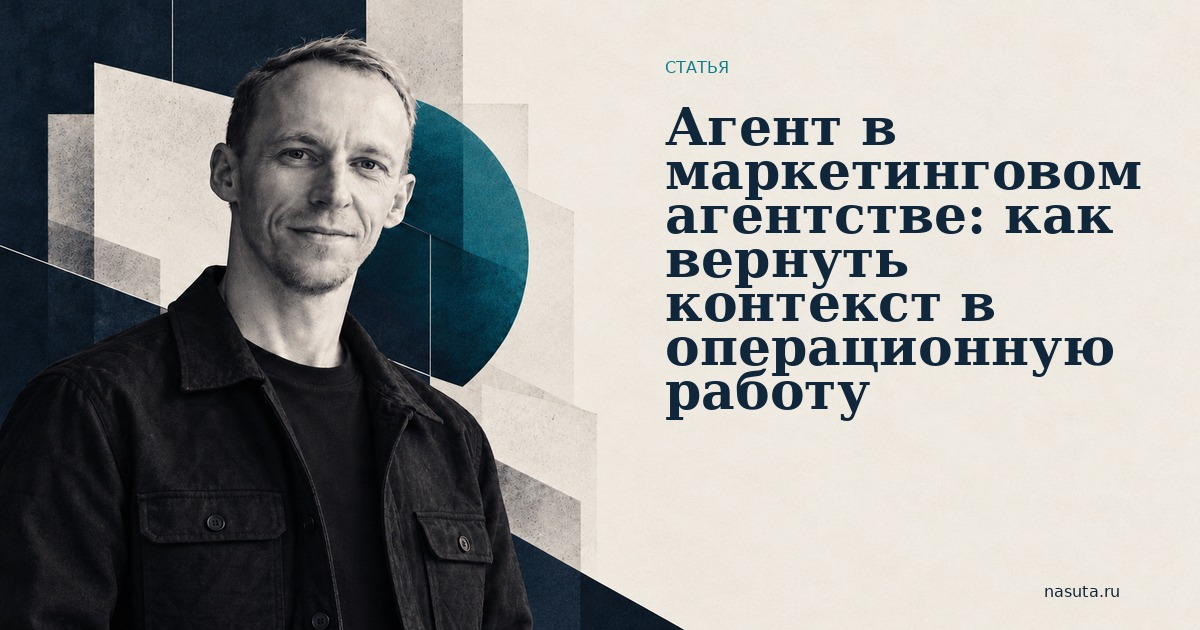
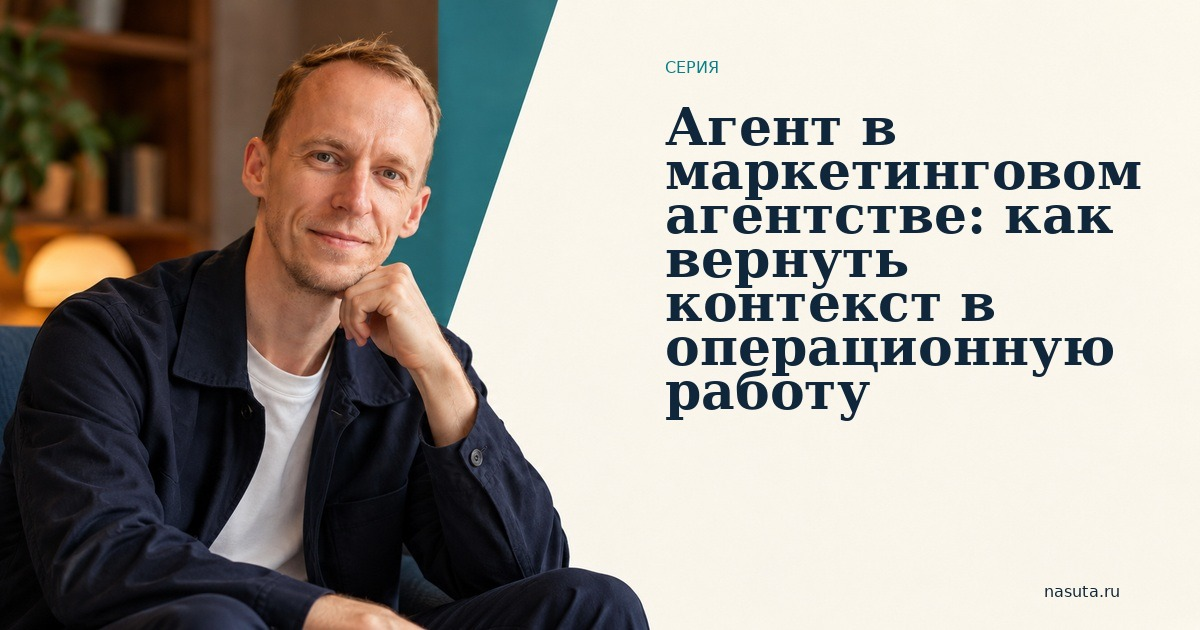
fix: refine blog reading surfaces

diff --git a/assets/styles/articles-editorial.css b/assets/styles/articles-editorial.css
@@ -1,1 +1,1 @@
-:root{--ink:#102e3d;--ink2:#214656;--paper:#f4f7f3;--white:#fbfcfa;--line:#bed1ce;--slate:#59717a;--teal:#08716e;--pale:#d6ede5;--orange:#dd7448;--mono:ui-monospace,SFMono-Regular,Menlo,Monaco,Consolas,monospace}*{box-sizing:border-box}html{scroll-behavior:smooth}body{margin:0;background:var(--paper);color:var(--ink);font-family:Arial,Helvetica,sans-serif;line-height:1.58}.shell{max-width:1180px;margin:auto;padding:0 42px}.nav{height:80px;border-bottom:1px solid var(--line);display:flex;justify-content:space-between;align-items:center}.brand{font:700 18px Georgia,serif;letter-spacing:-.035em;text-decoration:none;color:inherit}.nav-right{display:flex;gap:18px;align-items:center;font-weight:700;font-size:14px}.nav-right a{color:inherit;text-decoration:none}.nav-right a:last-child{border:1px solid var(--ink);padding:8px 11px}.hero{padding:82px 0 58px;border-bottom:1px solid var(--line);max-width:1030px}.meta,.eyebrow{font:700 11px var(--mono);letter-spacing:.1em;text-transform:uppercase;color:var(--teal)}h1{margin:20px 0 28px;max-width:980px;font:400 clamp(49px,7.25vw,97px)/.85 Georgia,serif;letter-spacing:-.082em}.lede{max-width:730px;font-size:22px;line-height:1.45;color:var(--ink2);margin:0}.hero-visual{margin:44px 0 0;max-width:1000px;overflow:hidden;border:1px solid var(--line);background:var(--white)}.hero-visual img{display:block;width:100%;height:auto}.article{display:grid;grid-template-columns:180px minmax(0,720px);gap:58px;padding:58px 0 78px}.toc{position:sticky;top:20px;align-self:start}.toc .eyebrow{margin-bottom:12px}.toc a{display:block;color:var(--slate);text-decoration:none;border-top:1px solid var(--line);padding:9px 0;font:700 11px var(--mono);letter-spacing:.04em}.toc a:last-child{border-bottom:1px solid var(--line)}.content>p,.content li,.content td{font-size:18px;line-height:1.62;color:var(--ink2)}.content p{margin:0 0 22px}.content h2{font:400 clamp(34px,4.2vw,56px)/.95 Georgia,serif;letter-spacing:-.068em;margin:67px 0 20px}.content h3{font:400 29px/1.05 Georgia,serif;letter-spacing:-.05em;margin:38px 0 13px}.content ul,.content ol{padding-left:24px;margin:0 0 25px}.content li{padding-left:6px;margin:9px 0}.content strong{color:var(--ink)}.architecture{margin:37px 0 28px}.architecture img{display:block;width:100%;height:auto;border:1px solid var(--line);background:var(--paper)}.architecture figcaption{margin-top:10px;color:var(--slate);font:700 11px var(--mono);letter-spacing:.04em}.comparison{margin:28px 0 31px;border-collapse:collapse;width:100%;font-size:16px}.comparison th,.comparison td{border:1px solid var(--line);padding:14px 15px;text-align:left;vertical-align:top}.comparison th{background:var(--ink);color:var(--white);font:700 12px var(--mono);letter-spacing:.04em}.comparison td:first-child{font-weight:700;color:var(--ink)}.principle{margin:35px 0;background:var(--pale);border:1px solid var(--teal);padding:28px 30px}.principle .eyebrow{margin:0 0 10px}.principle p{font:400 27px/1.18 Georgia,serif;letter-spacing:-.035em;color:var(--ink);margin:0}.architecture-note{margin:26px 0;border-left:4px solid var(--orange);padding:5px 0 5px 22px}.architecture-note p{margin:0}.skill-card{display:block;text-decoration:none;color:inherit;margin:47px 0 0;padding:29px 31px;border:1px solid var(--ink);background:var(--white);position:relative;overflow:hidden}.skill-card:after{content:"↗";position:absolute;right:28px;top:25px;font:400 39px/1 Georgia,serif;color:var(--teal)}.skill-card:hover{background:var(--pale)}.skill-card .eyebrow{margin:0 0 13px}.skill-card h2{margin:0 40px 10px 0;font-size:43px}.skill-card p{margin:0;max-width:600px}.footer{border-top:1px solid var(--line);padding:25px 0 34px;display:flex;justify-content:space-between;color:var(--slate);font:700 11px var(--mono);letter-spacing:.04em}@media(max-width:760px){.shell{padding:0 21px}.nav{height:67px}.nav-right{gap:10px;font-size:12px}.nav-right a:first-child{display:none}.nav-right a:last-child{padding:6px 8px}.hero{padding:54px 0 43px}h1{font-size:clamp(49px,15vw,74px);line-height:.88;letter-spacing:-.08em}.lede{font-size:19px}.hero-visual{margin-top:29px}.article{display:block;padding-top:37px}.toc{position:static;display:flex;flex-wrap:wrap;gap:7px;margin-bottom:32px}.toc .eyebrow{width:100%;margin-bottom:5px}.toc a,.toc a:last-child{border:1px solid var(--line);padding:6px 8px;font-size:10px}.content>p,.content li{font-size:17px}.content h2{font-size:40px;margin-top:53px}.content h3{font-size:27px}.architecture{margin:27px -21px 23px;padding:0 21px 8px;overflow-x:auto}.architecture img{min-width:720px;max-width:none}.comparison{font-size:14px;display:block;overflow-x:auto;white-space:normal}.comparison th,.comparison td{min-width:135px;padding:11px}.principle{padding:22px}.principle p{font-size:24px}.skill-card{padding:23px 22px}.skill-card:after{right:18px;top:18px}.skill-card h2{font-size:35px}.footer{font-size:9px;gap:14px}.footer span:last-child{text-align:right}}
+:root{--ink:#102e3d;--ink2:#214656;--paper:#f4f7f3;--white:#fbfcfa;--line:#bed1ce;--slate:#59717a;--teal:#08716e;--pale:#d6ede5;--orange:#dd7448;--mono:ui-monospace,SFMono-Regular,Menlo,Monaco,Consolas,monospace}*{box-sizing:border-box}html{scroll-behavior:smooth}body{margin:0;background:var(--paper);color:var(--ink);font-family:Arial,Helvetica,sans-serif;line-height:1.58}.shell{max-width:1180px;margin:auto;padding:0 42px}.nav{height:80px;border-bottom:1px solid var(--line);display:flex;justify-content:space-between;align-items:center}.brand{font:700 18px Georgia,serif;letter-spacing:-.035em;text-decoration:none;color:inherit}.nav-right{display:flex;gap:18px;align-items:center;font-weight:700;font-size:14px}.nav-right a{color:inherit;text-decoration:none}.nav-right a:last-child{border:1px solid var(--ink);padding:8px 11px}.hero{padding:82px 0 58px;border-bottom:1px solid var(--line);max-width:1030px}.meta,.eyebrow{font:700 11px var(--mono);letter-spacing:.1em;text-transform:uppercase;color:var(--teal)}h1{margin:20px 0 28px;max-width:980px;font:400 clamp(49px,7.25vw,97px)/.85 Georgia,serif;letter-spacing:-.082em}.lede{max-width:730px;font-size:22px;line-height:1.45;color:var(--ink2);margin:0}.hero-visual{margin:44px 0 0;max-width:1000px;overflow:hidden;border:1px solid var(--line);background:var(--white)}.hero-visual img{display:block;width:100%;height:auto}.article{display:grid;grid-template-columns:180px minmax(0,720px);gap:58px;padding:58px 0 78px}.toc{position:sticky;top:20px;align-self:start}.toc .eyebrow{margin-bottom:12px}.toc a{display:block;color:var(--slate);text-decoration:none;border-top:1px solid var(--line);padding:9px 0;font:700 11px var(--mono);letter-spacing:.04em}.toc a:last-child{border-bottom:1px solid var(--line)}.content>p,.content li,.content td{font-size:18px;line-height:1.62;color:var(--ink2)}.content p{margin:0 0 22px}.content h2{font:400 clamp(34px,4.2vw,56px)/.95 Georgia,serif;letter-spacing:-.068em;margin:67px 0 20px}.content h3{font:400 29px/1.05 Georgia,serif;letter-spacing:-.05em;margin:38px 0 13px}.content ul,.content ol{padding-left:24px;margin:0 0 25px}.content li{padding-left:6px;margin:9px 0}.content strong{color:var(--ink)}.architecture{margin:37px 0 28px}.architecture img{display:block;width:100%;height:auto;border:1px solid var(--line);background:var(--paper)}.architecture figcaption{margin-top:10px;color:var(--slate);font:700 11px var(--mono);letter-spacing:.04em}.comparison{margin:28px 0 31px;border-collapse:collapse;width:100%;font-size:16px}.comparison th,.comparison td{border:1px solid var(--line);padding:14px 15px;text-align:left;vertical-align:top}.comparison th{background:var(--ink);color:var(--white);font:700 12px var(--mono);letter-spacing:.04em}.comparison td:first-child{font-weight:700;color:var(--ink)}.principle{margin:35px 0;background:var(--pale);border:1px solid var(--teal);padding:28px 30px}.principle .eyebrow{margin:0 0 10px}.principle p{font:400 27px/1.18 Georgia,serif;letter-spacing:-.035em;color:var(--ink);margin:0}.architecture-note{margin:26px 0;border-left:4px solid var(--orange);padding:5px 0 5px 22px}.architecture-note p{margin:0}.skill-card{display:block;text-decoration:none;color:inherit;margin:47px 0 0;padding:29px 31px;border:1px solid var(--ink);background:var(--white);position:relative;overflow:hidden}.skill-card:after{content:"↗";position:absolute;right:28px;top:25px;font:400 39px/1 Georgia,serif;color:var(--teal)}.skill-card:hover{background:var(--pale)}.skill-card .eyebrow{margin:0 0 13px}.skill-card h2{margin:0 40px 10px 0;font-size:43px}.skill-card p{margin:0;max-width:600px}.footer{border-top:1px solid var(--line);padding:25px 0 34px;display:flex;justify-content:space-between;color:var(--slate);font:700 11px var(--mono);letter-spacing:.04em}@media(max-width:760px){.shell{padding:0 21px}.nav{height:67px}.nav-right{gap:10px;font-size:12px}.nav-right a:first-child{display:none}.nav-right a:last-child{padding:6px 8px}.hero{padding:54px 0 43px}h1{font-size:clamp(49px,15vw,74px);line-height:.88;letter-spacing:-.08em}.lede{font-size:19px}.hero-visual{margin-top:29px}.article{display:block;padding-top:37px}.toc{position:static;display:flex;flex-wrap:wrap;gap:7px;margin-bottom:32px}.toc .eyebrow{width:100%;margin-bottom:5px}.toc a,.toc a:last-child{border:1px solid var(--line);padding:6px 8px;font-size:10px}.content>p,.content li{font-size:17px}.content h2{font-size:40px;margin-top:53px}.content h3{font-size:27px}.architecture{margin:27px -21px 23px;padding:0 21px 8px;overflow-x:auto}.architecture img{min-width:720px;max-width:none}.comparison{font-size:14px;display:block;overflow-x:auto;white-space:normal}.comparison th,.comparison td{min-width:135px;padding:11px}.principle{padding:22px}.principle p{font-size:24px}.skill-card{padding:23px 22px}.skill-card:after{right:18px;top:18px}.skill-card h2{font-size:35px}.footer{font-size:9px;gap:14px}.footer span:last-child{text-align:right}}.article-tail{margin:56px 0 0;padding-top:26px;border-top:1px solid var(--ink)}.article-tail__series{max-width:720px}.article-tail__series .eyebrow{margin:0 0 13px}.article-tail__links{border-top:1px solid var(--line)}.article-tail__links a{display:block;padding:13px 0;border-bottom:1px solid var(--line);color:var(--ink);font:400 21px/1.2 Georgia,serif;letter-spacing:-.025em;text-decoration:none}.article-tail__links a:hover{color:var(--teal)}.article-tail__contact{margin:23px 0 0!important;color:var(--slate)!important;font-size:16px!important}.article-tail__contact a{color:var(--ink);font-weight:700;text-decoration-thickness:1px;text-underline-offset:3px}@media(max-width:760px){.article-tail{margin-top:42px;padding-top:21px}.article-tail__links a{padding:12px 0;font-size:19px}.article-tail__contact{font-size:16px!important}}

diff --git a/articles/index.html b/articles/index.html
@@ -81,13 +81,13 @@
 </nav>
 <div class="shell">
 <main><header class="hero"><div class="kicker">Блог</div><h1>Заметки о продуктовой работе с AI.</h1><p class="lede">Про то, как не начинать с инструмента, проверять результат и оставлять решение там, где ему место — у человека.</p></header><section class="list">
-<a class="item item--with-cover" href="/articles/agent-in-marketing-agency/"><img class="item-cover" src="/assets/images/og-agent-in-marketing-agency.jpg" alt=""><div class="item-meta">СЕРИЯ<br>11 МИН</div><div><h2>Агент в маркетинговом агентстве: как вернуть контекст в операционную работу</h2><p>Где агент снимает с руководителя ручную сборку контекста и какие правила делают его результат частью операционной работы.</p></div><span class="arrow">→</span></a><a class="item item--with-cover" href="/articles/ai-agent-pilot-for-agency/"><img class="item-cover" src="/assets/images/og-ai-agent-pilot-for-agency.jpg" alt=""><div class="item-meta">СЕРИЯ<br>10 МИН</div><div><h2>Как внедрять AI-агента в агентство: пилот, данные и границы</h2><p>Пилот начинается с одной повторяющейся цепочки, надёжных источников и правила: решения с последствиями остаются за человеком.</p></div><span class="arrow">→</span></a><a class="item item--with-cover" href="/articles/ai-operating-system-marketing-agency/"><img class="item-cover" src="/assets/images/og-ai-operating-system-marketing-agency.jpg" alt=""><div class="item-meta">СЕРИЯ<br>12 МИН</div><div><h2>AI Operating System для маркетингового агентства: продажи, production, знания и экономика в одном контуре</h2><p>Связанные агентные контуры помогают раньше видеть риски по обязательствам, загрузке и экономике, сохраняя решение за руководителем.</p></div><span class="arrow">→</span></a><a class="item item--with-cover" href="ai-agent-when-tired/index.html"><img class="item-cover" src="/assets/images/og-ai-agent-when-tired.jpg" alt=""><div class="item-meta">СТАТЬЯ<br>8 МИН</div><div><h2>Не пишите агенту, когда вы уже на нуле</h2><p>Почему работа с AI-агентом иногда ломается не в модели, а в выжатом человеке перед ней.</p></div><span class="arrow">→</span></a>
+<a class="item" href="/articles/agent-in-marketing-agency/"><div class="item-meta">СЕРИЯ<br>11 МИН</div><div><h2>Агент в маркетинговом агентстве: как вернуть контекст в операционную работу</h2><p>Где агент снимает с руководителя ручную сборку контекста и какие правила делают его результат частью операционной работы.</p></div><span class="arrow">→</span></a><a class="item" href="/articles/ai-agent-pilot-for-agency/"><div class="item-meta">СЕРИЯ<br>10 МИН</div><div><h2>Как внедрять AI-агента в агентство: пилот, данные и границы</h2><p>Пилот начинается с одной повторяющейся цепочки, надёжных источников и правила: решения с последствиями остаются за человеком.</p></div><span class="arrow">→</span></a><a class="item" href="/articles/ai-operating-system-marketing-agency/"><div class="item-meta">СЕРИЯ<br>12 МИН</div><div><h2>AI Operating System для маркетингового агентства: продажи, production, знания и экономика в одном контуре</h2><p>Связанные агентные контуры помогают раньше видеть риски по обязательствам, загрузке и экономике, сохраняя решение за руководителем.</p></div><span class="arrow">→</span></a><a class="item" href="ai-agent-when-tired/index.html"><div class="item-meta">СТАТЬЯ<br>8 МИН</div><div><h2>Не пишите агенту, когда вы уже на нуле</h2><p>Почему работа с AI-агентом иногда ломается не в модели, а в выжатом человеке перед ней.</p></div><span class="arrow">→</span></a>
 <a class="item" href="ai-maturity-in-company/index.html"><div class="item-meta">СТАТЬЯ<br>12 МИН</div><div><h2>Почему компанию нельзя «сделать AI-native» одним внедрением</h2><p>Рабочая шкала зрелости AI: от личных проб до управляемых процессов и операционной перестройки.</p></div><span class="arrow">→</span></a>
 <a class="item" href="ai-agents/index.html"><div class="item-meta">ГАЙДЫ<br>AI-АГЕНТЫ</div><div><h2>Практика AI-агентов</h2><p>Маршруты от первого процесса и установки Hermes до устойчивого результата, который можно проверить.</p></div><span class="arrow">→</span></a>
 <a class="item" href="hermes-agent-installation/index.html"><div class="item-meta">ГЛАВНЫЙ ГАЙД<br>25 МИН</div><div><h2>Как установить Hermes Agent на Mac, Windows и VPS</h2><p>Подробная инструкция для России: Desktop, Telegram, сервер, безопасность и первый сценарий.</p></div><span class="arrow">→</span></a>
 <a class="item" href="hermes-agent-telegram-vps/index.html"><div class="item-meta">ПРАКТИКА<br>12 МИН</div><div><h2>Hermes + Telegram на VPS: агент 24/7</h2><p>Как сделать агент доступным в Telegram и не превратить сервер в открытую дверь.</p></div><span class="arrow">→</span></a>
 <a class="item" href="hermes-commands/index.html"><div class="item-meta">СПРАВОЧНИК<br>15 МИН</div><div><h2>Команды Hermes в Telegram и консоли</h2><p>Что делает /new, как поставить задачу в очередь, где смотреть статус и какие команды нужны на сервере.</p></div><span class="arrow">→</span></a>
-<a class="item item--with-cover" href="ai-agent-knowledge-storage/index.html"><img class="item-cover" src="/assets/images/og-ai-agent-knowledge-storage.jpg" alt=""><div class="item-meta">СТАТЬЯ<br>14 МИН</div><div><h2>Агенту нужно не только помнить. Ему нужно куда складывать работу</h2><p>Как связать Hermes и Anytype, чтобы результат работы агента можно было открыть, найти и использовать.</p></div><span class="arrow">→</span></a>
+<a class="item" href="ai-agent-knowledge-storage/index.html"><div class="item-meta">СТАТЬЯ<br>14 МИН</div><div><h2>Агенту нужно не только помнить. Ему нужно куда складывать работу</h2><p>Как связать Hermes и Anytype, чтобы результат работы агента можно было открыть, найти и использовать.</p></div><span class="arrow">→</span></a>
 <a class="item" href="how-to-choose-an-ai-task/index.html"><div class="item-meta">СТАТЬЯ<br>8 МИН</div><div><h2>Естественный интеллект — раньше искусственного</h2><p>Как выбрать задачу для AI: проблема, гипотеза, критерий результата и цена ошибки — до инструмента.</p></div><span class="arrow">→</span></a>
 <a class="item" href="how-to-verify-ai-automation/index.html"><div class="item-meta">ПРАКТИКА<br>8 МИН</div><div><h2>Как проверять результат AI-автоматизации до запуска</h2><p>Семь вопросов о качестве, человеческом контроле и стоп-условиях.</p></div><span class="arrow">→</span></a>
 </section></main><footer class="site-footer" data-site-footer="global">

diff --git a/articles/ai-agents/index.html b/articles/ai-agents/index.html
@@ -63,7 +63,7 @@
 </nav>
 <div class="shell">
     <main>
-      <header class="hero ai-agent-hero"><div class="meta">ПРАКТИКА AI-АГЕНТОВ · ГАЙДЫ · AI-АГЕНТЫ · АВТОМАТИЗАЦИЯ</div><h1>Практика AI-агентов</h1><p class="lede">Не витрина нейросетей, а рабочие маршруты: поставить агента, дать ему одну задачу, сохранить результат и не потерять контроль.</p><figure class="hero-visual"><img src="../../assets/images/og-ai-agent-practice.jpg" alt="Карта пути AI-агента от компьютера и сервера к проверяемым рабочим материалам"></figure></header>
+      <header class="hero ai-agent-hero"><div class="meta">ПРАКТИКА AI-АГЕНТОВ · ГАЙДЫ · AI-АГЕНТЫ · АВТОМАТИЗАЦИЯ</div><h1>Практика AI-агентов</h1><p class="lede">Не витрина нейросетей, а рабочие маршруты: поставить агента, дать ему одну задачу, сохранить результат и не потерять контроль.</p></header>
       <section class="article article--single"><article class="content ai-guide-content"><p>AI-агент полезен не потому, что умеет красиво отвечать. Он становится полезен, когда берёт повторяющийся кусок работы, оставляет понятный результат и не забирает у человека право на решение.</p><p>В этой ветке собраны материалы именно про это: как поставить агента, где хранить его результаты, какой процесс выбрать первым и как не перепутать автоматизацию с красивой демонстрацией.</p><div class="decision-flow"><div><span>1</span><strong>Есть работа</strong><p>Повторяющийся процесс, где уже есть входящие данные и понятный результат.</p></div><div><span>2</span><strong>Есть граница</strong><p>Человек оставляет за собой публикации, деньги, доступы и необратимые решения.</p></div><div><span>3</span><strong>Есть артефакт</strong><p>Итог можно открыть, проверить, передать дальше или найти через месяц.</p></div></div><h2>С чего начать</h2><div class="guide-cards"><a href="../hermes-agent-installation/"><span>УСТАНОВКА</span><h3>Hermes на Mac, Windows и VPS</h3><p>Выберите Desktop или постоянный сервер, подключите Telegram и не потеряйте контроль над доступами.</p></a><a href="../hermes-agent-telegram-vps/"><span>24/7</span><h3>Telegram-агент на VPS</h3><p>Как устроить серверный контур, который не исчезает вместе с закрытым ноутбуком.</p></a><a href="../ai-agent-knowledge-storage/"><span>ПАМЯТЬ</span><h3>Агенту нужно куда складывать работу</h3><p>Зачем связать Hermes и Anytype, чтобы результат жил не только в переписке.</p></a><a href="../how-to-choose-an-ai-task/"><span>ВЫБОР</span><h3>Как выбрать первую задачу</h3><p>Проверить проблему, цену ошибки и способ человеческого контроля до покупки инструмента.</p></a><a href="../hermes-commands/"><span>СПРАВОЧНИК</span><h3>Команды Hermes в Telegram и консоли</h3><p>Полный список встроенных команд: новая сессия, фоновые задачи, доступы, gateway и терминал.</p></a></div><h2>Агенты в операционке агентства</h2><div class="guide-cards"><a href="../agent-in-marketing-agency/"><span>СЕРИЯ</span><h3>Агент в маркетинговом агентстве: как вернуть контекст в операционную работу</h3><p>Где агент снимает с руководителя ручную сборку контекста и какие правила делают его результат частью операционной работы.</p></a><a href="../ai-agent-pilot-for-agency/"><span>СЕРИЯ</span><h3>Как внедрять AI-агента в агентство: пилот, данные и границы</h3><p>Пилот начинается с одной повторяющейся цепочки, надёжных источников и правила: решения с последствиями остаются за человеком.</p></a><a href="../ai-operating-system-marketing-agency/"><span>СЕРИЯ</span><h3>AI Operating System для маркетингового агентства: продажи, production, знания и экономика в одном контуре</h3><p>Связанные агентные контуры помогают раньше видеть риски по обязательствам, загрузке и экономике, сохраняя решение за руководителем.</p></a></div><h2>Агенты в операционке агентства</h2><div class="guide-cards"><a href="/articles/agent-in-marketing-agency/"><span>СЕРИЯ</span><h3>Агент в маркетинговом агентстве: как вернуть контекст в операционную работу</h3><p>Где агент снимает с руководителя ручную сборку контекста и какие правила делают его результат частью операционной работы.</p></a><a href="/articles/ai-agent-pilot-for-agency/"><span>СЕРИЯ</span><h3>Как внедрять AI-агента в агентство: пилот, данные и границы</h3><p>Пилот начинается с одной повторяющейся цепочки, надёжных источников и правила: решения с последствиями остаются за человеком.</p></a><a href="/articles/ai-operating-system-marketing-agency/"><span>СЕРИЯ</span><h3>AI Operating System для маркетингового агентства: продажи, production, знания и экономика в одном контуре</h3><p>Связанные агентные контуры помогают раньше видеть риски по обязательствам, загрузке и экономике, сохраняя решение за руководителем.</p></a></div><h2>Не начинайте с пустого чата</h2><p>Если уже знаете свою задачу, лучше взять готовый workflow и адаптировать его под себя. В <a href="../../skills/">Skill Hub</a> собраны навыки для аудиосаммари, работы руководителя и базы знаний. Если нужна практика и новые разборы, подписывайтесь на <a href="https://t.me/niimozgii" target="_blank" rel="noopener">НИИ «МОЗГИ» ↗</a>.</p><section class="agent-cta"><div><div class="eyebrow">Свой процесс</div><h2>Сначала разложите работу, потом автоматизируйте</h2><p>Не уверены, есть ли у процесса потенциал для агента? Начните с проблемы, входящих данных, критерия результата и цены ошибки.</p></div><div class="agent-cta__links"><a href="../how-to-choose-an-ai-task/">Выбрать задачу →</a><a href="../../contact/">Разобрать процесс →</a></div></section></article></section>
     </main>
     <footer class="site-footer" data-site-footer="global">

diff --git a/articles/hermes-agent-telegram-vps/index.html b/articles/hermes-agent-telegram-vps/index.html
@@ -63,7 +63,7 @@
 </nav>
 <div class="shell">
     <main>
-      <header class="hero ai-agent-hero"><div class="meta">ПРАКТИКА AI-АГЕНТОВ · ПРАКТИЧЕСКИЙ ГАЙД · 12 МИНУТ</div><h1>Hermes + Telegram на VPS: агент 24/7</h1><p class="lede">Как сделать так, чтобы агент был доступен в Telegram, когда ноутбук закрыт, но не превратить собственный сервер в открытую дверь.</p><figure class="hero-visual"><img src="../../assets/images/og-hermes-agent-telegram-vps.jpg" alt="Серверный AI-агент ночью передаёт сообщение и проверяемый отчёт человеку"></figure></header>
+      <header class="hero ai-agent-hero"><div class="meta">ПРАКТИКА AI-АГЕНТОВ · ПРАКТИЧЕСКИЙ ГАЙД · 12 МИНУТ</div><h1>Hermes + Telegram на VPS: агент 24/7</h1><p class="lede">Как сделать так, чтобы агент был доступен в Telegram, когда ноутбук закрыт, но не превратить собственный сервер в открытую дверь.</p></header>
       <section class="article"><aside class="toc"><div class="eyebrow">В статье</div><a href="#when">Когда нужен VPS</a><a href="#shape">Как выглядит контур</a><a href="#start">Порядок запуска</a><a href="#security">Доступы и безопасность</a><a href="#operating">Еженедельная проверка</a></aside><article class="content ai-guide-content"><p>Ноутбук удобен, пока агент нужен в рабочее время и рядом лежат ваши файлы. Но как только он должен отвечать в Telegram утром, ночью, в поездке или по расписанию, домашний компьютер превращается в ненадёжную часть системы.</p><p>VPS решает не проблему «где взять магию». Он решает простую задачу: где живёт постоянно работающая программа, пока вы занимаетесь своей жизнью.</p><h2 id="when">Когда VPS действительно нужен</h2><ul><li>бот должен отвечать, когда ноутбук закрыт;</li><li>есть регулярные обзоры, напоминания или мониторинг;</li><li>агенту нужен устойчивый адрес и отдельная среда;</li><li>вы готовы раз в неделю проверить состояние сервера и резервных копий.</li></ul><p>Если вы только пробуете сценарий с файлами на своём компьютере, VPS можно отложить. Не нужно арендовать сервер, чтобы задать первый хороший вопрос.</p><h2 id="shape">Контур, который стоит собирать</h2><div class="decision-flow"><div><span>1</span><strong>VPS</strong><p>Отдельный пользователь для Hermes. Не root. Обновления и только нужные сетевые доступы.</p></div><div><span>2</span><strong>Gateway</strong><p>Сервис Hermes держит соединение с Telegram и запускается снова после перезагрузки.</p></div><div><span>3</span><strong>Человек</strong><p>Получает итог в Telegram, проверяет его и подтверждает необратимые действия.</p></div></div><h2 id="start">Порядок запуска без инфраструктурного фетиша</h2><ol><li>Выберите VPS у провайдера, который показывает страну размещения, стоимость и резервные опции. Например, <a href="https://timeweb.cloud/services/servers-europe" target="_blank" rel="noopener">Timeweb Cloud</a> предлагает зарубежные локации через привычную панель.</li><li>Создайте отдельного пользователя для Hermes и не запускайте агента от root.</li><li>Поставьте Hermes по <a href="https://hermes-agent.nousresearch.com/docs/getting-started/installation" target="_blank" rel="noopener">официальной инструкции</a>.</li><li>Подключите Telegram через интерфейс Hermes или создайте бота в <a href="https://t.me/BotFather" target="_blank" rel="noopener">BotFather ↗</a>.</li><li>Разрешите писать боту только тем аккаунтам, которым доверяете.</li><li>Включите автозапуск gateway, перезагрузите сервер и отправьте тестовое сообщение.</li></ol><p>Не открывайте веб-интерфейс агента в интернет ради удобства. Telegram не требует от вас публичного webhook для базового сценария, а админский доступ лучше оставлять за SSH или закрытой сетью.</p><h2 id="security">Где чаще всего ломается безопасность</h2><p>Не в сложной криптографии. Обычно всё ломается в момент, когда токен бота отправляют в чат, сервер оставляют с парольным root-входом, а агенту дают доступ ко всему сразу.</p><div class="route-box"><strong>Минимальное правило:</strong> один бот, один ответственный владелец, отдельный пользователь на сервере, ограниченный список Telegram-пользователей и человек перед публикацией, платежом, удалением или изменением прав.</div><p>Если для вашей работы нужен личный VPN, не смешивайте его с агентом на одном сервере только ради экономии. Это разные контуры доступа и разные последствия ошибки.</p><h2 id="operating">Десять минут в неделю</h2><p>Раз в неделю проверьте: отвечает ли бот, хватает ли места на диске, прошли ли обновления, есть ли резервная копия и понятна ли карта восстановления. Серверный агент не должен быть хрупкой штукой, о которой вспоминают только после тишины в Telegram.</p><section class="agent-cta"><div><div class="eyebrow">После VPS</div><h2>Сервер не является сценарием</h2><p>Когда агент стабильно доступен, выберите одну полезную работу: аудиосаммари, помощник руководителя, рыночный радар или база знаний.</p></div><div class="agent-cta__links"><a href="../../skills/">Выбрать skill →</a><a href="../hermes-agent-installation/">Полная инструкция Hermes →</a><a href="../../contact/">Разобрать процесс →</a></div></section></article></section>
     </main>
     <footer class="site-footer" data-site-footer="global">

diff --git a/index.html b/index.html
@@ -98,7 +98,14 @@
         </div>
 
       </section>
-      <section class="content-section" id="blog"><div class="section-head"><h2>Блог</h2><a href="/articles/">Все материалы →</a></div><div class="case-grid"><a class="case case--with-cover" href="/articles/agent-in-marketing-agency/"><img class="case-cover" src="/assets/images/og-agent-in-marketing-agency.jpg" alt=""><div class="case-meta"><span>СЕРИЯ · 11 МИН</span></div><h3>Агент в маркетинговом агентстве: как вернуть контекст в операционную работу</h3><p>Где агент снимает с руководителя ручную сборку контекста и какие правила делают его результат частью операционной работы.</p></a><a class="case case--with-cover" href="/articles/ai-agent-pilot-for-agency/"><img class="case-cover" src="/assets/images/og-ai-agent-pilot-for-agency.jpg" alt=""><div class="case-meta"><span>СЕРИЯ · 10 МИН</span></div><h3>Как внедрять AI-агента в агентство: пилот, данные и границы</h3><p>Пилот начинается с одной повторяющейся цепочки, надёжных источников и правила: решения с последствиями остаются за человеком.</p></a><a class="case case--with-cover" href="/articles/ai-operating-system-marketing-agency/"><img class="case-cover" src="/assets/images/og-ai-operating-system-marketing-agency.jpg" alt=""><div class="case-meta"><span>СЕРИЯ · 12 МИН</span></div><h3>AI Operating System для маркетингового агентства: продажи, production, знания и экономика в одном контуре</h3><p>Связанные агентные контуры помогают раньше видеть риски по обязательствам, загрузке и экономике, сохраняя решение за руководителем.</p></a><a class="case case--with-cover" href="/articles/ai-agent-when-tired/"><img class="case-cover" src="/assets/images/og-ai-agent-when-tired.jpg" alt=""><div class="case-meta"><span>СТАТЬЯ · 8 МИН</span></div><h3>Не пишите агенту, когда вы уже на нуле</h3><p>Почему работа с AI-агентом иногда ломается не в модели, а в выжатом человеке перед ней.</p></a><a class="case" href="/articles/ai-maturity-in-company/"><div class="case-meta"><span>СТАТЬЯ · 12 МИН</span></div><h3>Почему компанию нельзя «сделать AI-native» одним внедрением</h3><p>Рабочая шкала зрелости AI: от личных проб до управляемых процессов, без прыжка в дорогие демонстрации.</p></a><a class="case case--with-cover" href="/articles/ai-agent-knowledge-storage/"><img class="case-cover" src="/assets/images/og-ai-agent-knowledge-storage.jpg" alt=""><div class="case-meta"><span>СТАТЬЯ · 14 МИН</span></div><h3>Агенту нужно не только помнить. Ему нужно куда складывать работу</h3><p>Как связать Hermes и Anytype, чтобы результаты работы агента можно было открыть, найти и использовать.</p></a><a class="case" href="/articles/how-to-choose-an-ai-task/"><div class="case-meta"><span>СТАТЬЯ · 8 МИН</span></div><h3>Естественный интеллект — раньше искусственного</h3><p>Как выбрать задачу для AI: начать с проблемы, критерия результата и цены ошибки.</p></a><a class="case" href="/articles/how-to-verify-ai-automation/"><div class="case-meta"><span>ПРАКТИКА · 8 МИН</span></div><h3>Как проверять результат AI-автоматизации</h3><p>Какие критерии определить до запуска, чтобы скорость не подменила качество.</p></a></div></section>
+      <section class="content-section" id="blog">
+        <div class="section-head"><h2>Блог</h2><a href="/articles/">Все материалы →</a></div>
+        <div class="case-grid">
+          <a class="case" href="/articles/agent-in-marketing-agency/"><div class="case-meta"><span>СЕРИЯ · 11 МИН</span></div><h3>Агент в маркетинговом агентстве: как вернуть контекст в операционную работу</h3><p>Где агент снимает с руководителя ручную сборку контекста и какие правила делают его результат частью операционной работы.</p></a>
+          <a class="case" href="/articles/ai-agent-pilot-for-agency/"><div class="case-meta"><span>СЕРИЯ · 10 МИН</span></div><h3>Как внедрять AI-агента в агентство: пилот, данные и границы</h3><p>Пилот начинается с одной повторяющейся цепочки, надёжных источников и правила: решения с последствиями остаются за человеком.</p></a>
+          <a class="case" href="/articles/ai-operating-system-marketing-agency/"><div class="case-meta"><span>СЕРИЯ · 12 МИН</span></div><h3>AI Operating System для маркетингового агентства: продажи, production, знания и экономика в одном контуре</h3><p>Связанные агентные контуры помогают раньше видеть риски по обязательствам, загрузке и экономике, сохраняя решение за руководителем.</p></a>
+        </div>
+      </section>
       <section class="content-section ai-agent-entry" id="ai-agents">
   <div class="section-head"><div><p class="section-kicker">ПРАКТИКА AI-АГЕНТОВ</p><h2>Поставить агента мало. Нужно дать ему работу.</h2><p class="section-description">Гайды и рабочие маршруты: Hermes, Telegram, VPS, память, навыки и безопасная автоматизация без обещаний магии.</p></div><a href="/articles/ai-agents/">Все гайды →</a></div>
   <div class="case-grid">

diff --git a/articles/hermes-agent-installation/index.html b/articles/hermes-agent-installation/index.html
@@ -63,7 +63,7 @@
 </nav>
 <div class="shell">
     <main>
-      <header class="hero ai-agent-hero"><div class="meta">ПРАКТИКА AI-АГЕНТОВ · 29 ОКТЯБРЯ 2026 · 25 МИНУТ</div><h1>Как установить Hermes Agent на Mac, Windows и VPS</h1><p class="lede">Большая инструкция для тех, кому нужен не ещё один чат, а личный AI-агент: на компьютере, в Telegram и при необходимости на постоянном сервере.</p><figure class="hero-visual"><img src="../../assets/images/og-hermes-agent-installation.jpg" alt="Ноутбук, компьютер и сервер соединены в один рабочий путь AI-агента"></figure></header>
+      <header class="hero ai-agent-hero"><div class="meta">ПРАКТИКА AI-АГЕНТОВ · 29 ОКТЯБРЯ 2026 · 25 МИНУТ</div><h1>Как установить Hermes Agent на Mac, Windows и VPS</h1><p class="lede">Большая инструкция для тех, кому нужен не ещё один чат, а личный AI-агент: на компьютере, в Telegram и при необходимости на постоянном сервере.</p></header>
       <section class="article"><aside class="toc"><div class="eyebrow">Маршруты</div><a href="#быстрый-выбор-компьютер-или-vps">Компьютер или VPS</a><a href="#маршрут-1-установка-hermes-desktop-без-терминала">Desktop</a><a href="#telegram-бот-и-организация-работы">Telegram</a><a href="#маршрут-4-постоянный-hermes-на-собственном-vps">VPS</a><a href="#шесть-сценариев-где-агент-сильнее-обычного-чата">Сценарии</a><a href="#что-делать-дальше">Следующий шаг</a></aside><article class="content ai-guide-content"><div class="route-box"><strong>Если хотите попробовать:</strong> начните с Desktop на своём компьютере. <strong>Если агент должен отвечать в Telegram круглосуточно:</strong> переходите к маршруту VPS. <a href="https://hermes-agent.nousresearch.com/desktop" target="_blank" rel="noopener">Официальный Hermes Desktop ↗</a></div>
 <p>Hermes Agent нужен не для того, чтобы «поболтать с ещё одним чат-ботом». Это агент, который работает в терминале, умеет пользоваться файлами, браузером и подключёнными сервисами, а при необходимости живёт в Telegram и выполняет регулярные задачи сам. Перед установкой важно решить не только «какую команду вставить», но и где агент будет жить, как он получит модель, где будут лежать ключи и кто сможет ему писать.</p>
 <p>Ниже три рабочих маршрута:</p>

diff --git a/articles/ai-agent-pilot-for-agency/index.html b/articles/ai-agent-pilot-for-agency/index.html
@@ -152,8 +152,7 @@
 <p>Подключение модели к CRM открывает эксперимент. Изменения начинаются, когда полезный сценарий становится привычной работой команды и остаётся управляемым в плохой день.</p>
 <h2 id="продолжение-серии">Продолжение серии</h2>
 <p>В третьей статье разберём, как связать отдельные пилоты в AI Operating System агентства: продажи, производство, знания и проектную экономику без попытки поставить один бот над всем бизнесом.</p>
-          <aside class="next"><div class="eyebrow">Серия об агентной операционке</div><a href="../agent-in-marketing-agency/">← Агент в маркетинговом агентстве: как вернуть контекст в операционную работу</a><a href="../ai-operating-system-marketing-agency/">AI Operating System для маркетингового агентства: продажи, production, знания и экономика в одном контуре →</a></aside>
-          <aside class="next"><div class="eyebrow">Обсудить свой процесс</div><a href="/contact/">Написать Павлу о задаче в агентстве →</a><a href="https://t.me/niimozgii" target="_blank" rel="noopener">Читать НИИ «МОЗГИ» →</a></aside>
+          <section class="article-tail" aria-label="Продолжить чтение"><div class="article-tail__series"><div class="eyebrow">Дальше по серии</div><div class="article-tail__links"><a href="../agent-in-marketing-agency/"><span aria-hidden="true">←</span> Агент в маркетинговом агентстве: как вернуть контекст в операционную работу</a><a href="../ai-operating-system-marketing-agency/">AI Operating System для маркетингового агентства: продажи, production, знания и экономика в одном контуре <span aria-hidden="true">→</span></a></div></div><p class="article-tail__contact">Если хотите сверить свой процесс с этой схемой, <a href="/contact/">напишите мне</a>.</p></section>
         </article>
       </section>
     </main>

diff --git a/articles/ai-operating-system-marketing-agency/index.html b/articles/ai-operating-system-marketing-agency/index.html
@@ -155,8 +155,7 @@
 <p>Когда этот маршрут станет устойчивым, соедините его со следующим. Так постепенно собирается AI Operating System агентства. Её создают процессы, которые сохраняют контекст, вовремя показывают проблему и зовут человека принять решение.</p>
 <h2 id="серия">Серия</h2>
 <p>Это третья статья цикла. Начать лучше с первой: «Агент в маркетинговом агентстве: где он снимает операционную нагрузку, а где только добавляет работы». Затем перейти ко второй: «Как внедрять AI-агента в агентство: пилот, данные и границы».</p>
-          <aside class="next"><div class="eyebrow">Серия об агентной операционке</div><a href="../ai-agent-pilot-for-agency/">← Как внедрять AI-агента в агентство: пилот, данные и границы</a></aside>
-          <aside class="next"><div class="eyebrow">Обсудить свой процесс</div><a href="/contact/">Написать Павлу о задаче в агентстве →</a><a href="https://t.me/niimozgii" target="_blank" rel="noopener">Читать НИИ «МОЗГИ» →</a></aside>
+          <section class="article-tail" aria-label="Продолжить чтение"><div class="article-tail__series"><div class="eyebrow">Дальше по серии</div><div class="article-tail__links"><a href="../ai-agent-pilot-for-agency/"><span aria-hidden="true">←</span> Как внедрять AI-агента в агентство: пилот, данные и границы</a></div></div><p class="article-tail__contact">Если хотите сверить свой процесс с этой схемой, <a href="/contact/">напишите мне</a>.</p></section>
         </article>
       </section>
     </main>

diff --git a/articles/agent-in-marketing-agency/index.html b/articles/agent-in-marketing-agency/index.html
@@ -150,8 +150,7 @@
 <p>Если агент сэкономил время, вовремя показал проблему и не создал новых рисков, у вас есть первый работающий контур. Только тогда имеет смысл идти дальше.</p>
 <h2 id="продолжение-серии">Продолжение серии</h2>
 <p>Дальше разберём порядок внедрения: как запустить агента, проверить данные и не тащить в новый контур старые ошибки. Об этом во второй статье серии: «Как внедрять AI-агента в агентство: пилот, данные и границы».</p>
-          <aside class="next"><div class="eyebrow">Серия об агентной операционке</div><a href="../ai-agent-pilot-for-agency/">Как внедрять AI-агента в агентство: пилот, данные и границы →</a></aside>
-          <aside class="next"><div class="eyebrow">Обсудить свой процесс</div><a href="/contact/">Написать Павлу о задаче в агентстве →</a><a href="https://t.me/niimozgii" target="_blank" rel="noopener">Читать НИИ «МОЗГИ» →</a></aside>
+          <section class="article-tail" aria-label="Продолжить чтение"><div class="article-tail__series"><div class="eyebrow">Дальше по серии</div><div class="article-tail__links"><a href="../ai-agent-pilot-for-agency/">Как внедрять AI-агента в агентство: пилот, данные и границы <span aria-hidden="true">→</span></a></div></div><p class="article-tail__contact">Если хотите сверить свой процесс с этой схемой, <a href="/contact/">напишите мне</a>.</p></section>
         </article>
       </section>
     </main>

diff --git a/articles/ai-agent-knowledge-storage/index.html b/articles/ai-agent-knowledge-storage/index.html
@@ -80,7 +80,6 @@
         <div class="meta">БЛОГ · 22 ОКТЯБРЯ 2026 · 14 МИНУТ</div>
         <h1>Агенту нужно не только помнить.<br>Ему нужно куда складывать работу</h1>
         <p class="lede">Зачем AI-агенту человеческое, синхронизируемое хранилище и как мы собрали связку Hermes × Anytype.</p>
-        <figure class="hero-visual"><img src="../../assets/images/og-ai-agent-knowledge-storage.jpg" alt="Бумажные карточки переходят в цифровое рабочее пространство, доступное человеку и агенту"></figure>
       </header>
       <section class="article">
         <aside class="toc"><div class="eyebrow">В статье</div><a href="#chat">Чат не архив</a><a href="#choice">Что нужно хранилищу</a><a href="#anytype">Почему Anytype</a><a href="#architecture">Как устроена связка</a><a href="#skill">Что сделал skill</a><a href="#server">Про сервер</a><a href="#start">С чего начать</a></aside>

diff --git a/tests/test_article_og_cover.py b/tests/test_article_og_cover.py
@@ -3,7 +3,13 @@ import tempfile
 import unittest
 from PIL import Image
 
-from tools.article_og_cover import APPROVED_SOURCE_HASHES, CoverRequest, TITLE_LINE_HEIGHT_MULTIPLIER, render_cover
+from tools.article_og_cover import (
+    APPROVED_SOURCE_HASHES,
+    CoverRequest,
+    TITLE_LINE_HEIGHT_MULTIPLIER,
+    render_cover,
+    variant_for_sequence,
+)
 
 ROOT = Path(__file__).resolve().parents[1]
 ARTICLE = ROOT / "articles" / "ai-agent-knowledge-storage" / "index.html"
@@ -41,26 +47,42 @@ class ArticleOgCoverTests(unittest.TestCase):
                 self.assertEqual(image.size, (1200, 630))
                 self.assertEqual(image.format, "JPEG")
 
-    def test_renderer_rejects_a_template_without_an_approved_source(self):
-        self.assertIn("overshirt-standing", APPROVED_SOURCE_HASHES)
-        with tempfile.TemporaryDirectory() as directory:
-            with self.assertRaisesRegex(ValueError, "approved"):
-                render_cover(CoverRequest(
-                    slug="unapproved-template",
-                    title="Тест",
-                    variant="jacket-relaxed",
-                    output_path=Path(directory) / "cover.jpg",
-                ), ROOT)
+    def test_templates_repeat_in_the_approved_editorial_cycle(self):
+        self.assertEqual(
+            [variant_for_sequence(position) for position in range(8)],
+            [
+                "overshirt-standing", "table-knit", "jacket-relaxed",
+                "overshirt-standing", "table-knit", "jacket-relaxed",
+                "overshirt-standing", "table-knit",
+            ],
+        )
 
-    def test_article_uses_cover_in_metadata_and_hero_after_explicit_approval(self):
+    def test_all_three_approved_templates_render(self):
+        self.assertEqual(
+            set(APPROVED_SOURCE_HASHES),
+            {"overshirt-standing", "table-knit", "jacket-relaxed"},
+        )
+        with tempfile.TemporaryDirectory() as directory:
+            for variant in APPROVED_SOURCE_HASHES:
+                output = Path(directory) / f"{variant}.jpg"
+                render_cover(CoverRequest(
+                    slug=f"approved-{variant}",
+                    title="Проверка утверждённой обложки",
+                    variant=variant,
+                    output_path=output,
+                ), ROOT)
+                self.assertTrue(output.is_file())
+
+    def test_article_uses_cover_only_in_metadata(self):
         html = ARTICLE.read_text(encoding="utf-8")
         self.assertIn(f'property="og:image" content="{ASSET_URL}"', html)
         self.assertIn(f'name="twitter:image" content="{ASSET_URL}"', html)
-        self.assertIn('src="../../assets/images/og-ai-agent-knowledge-storage.jpg"', html)
+        body = html.split("</head>", 1)[1]
+        self.assertNotIn("og-ai-agent-knowledge-storage.jpg", body)
 
-    def test_home_and_archive_reference_same_cover(self):
+    def test_home_and_archive_do_not_reference_article_cover(self):
         for page in (HOME, ARCHIVE):
-            self.assertIn("og-ai-agent-knowledge-storage.jpg", page.read_text(encoding="utf-8"))
+            self.assertNotIn("og-ai-agent-knowledge-storage.jpg", page.read_text(encoding="utf-8"))
 
     def test_cover_asset_exists(self):
         self.assertTrue(ASSET_PATH.is_file())

diff --git a/tests/test_blog_cover_contract.py b/tests/test_blog_cover_contract.py
@@ -1,0 +1,39 @@
+from pathlib import Path
+import re
+import unittest
+
+
+ROOT = Path(__file__).resolve().parents[1]
+HOME = (ROOT / "index.html").read_text(encoding="utf-8")
+ARCHIVE = (ROOT / "articles" / "index.html").read_text(encoding="utf-8")
+ARTICLE_ROUTES = sorted((ROOT / "articles").glob("*/index.html"))
+
+
+class BlogCoverContractTests(unittest.TestCase):
+    def test_og_assets_never_render_inside_article_bodies(self):
+        for route in ARTICLE_ROUTES:
+            with self.subTest(route=route):
+                html = route.read_text(encoding="utf-8")
+                body = html.split("</head>", 1)[1]
+                self.assertNotRegex(body, r"og-[a-z0-9-]+\.jpg")
+
+    def test_home_and_archive_do_not_render_og_assets_as_thumbnails(self):
+        for html in (HOME, ARCHIVE):
+            body = html.split("</head>", 1)[1]
+            self.assertNotRegex(body, r"og-[a-z0-9-]+\.jpg")
+            self.assertNotIn("case-cover", body)
+            self.assertNotIn("item-cover", body)
+
+    def test_home_blog_features_only_three_current_articles_and_archive_link(self):
+        blog = HOME.split('id="blog"', 1)[1].split('id="ai-agents"', 1)[0]
+        links = re.findall(r'<a class="case[^\"]*" href="([^\"]+)"', blog)
+        self.assertEqual(links, [
+            "/articles/agent-in-marketing-agency/",
+            "/articles/ai-agent-pilot-for-agency/",
+            "/articles/ai-operating-system-marketing-agency/",
+        ])
+        self.assertIn('href="/articles/">Все материалы →', blog)
+
+
+if __name__ == "__main__":
+    unittest.main()
